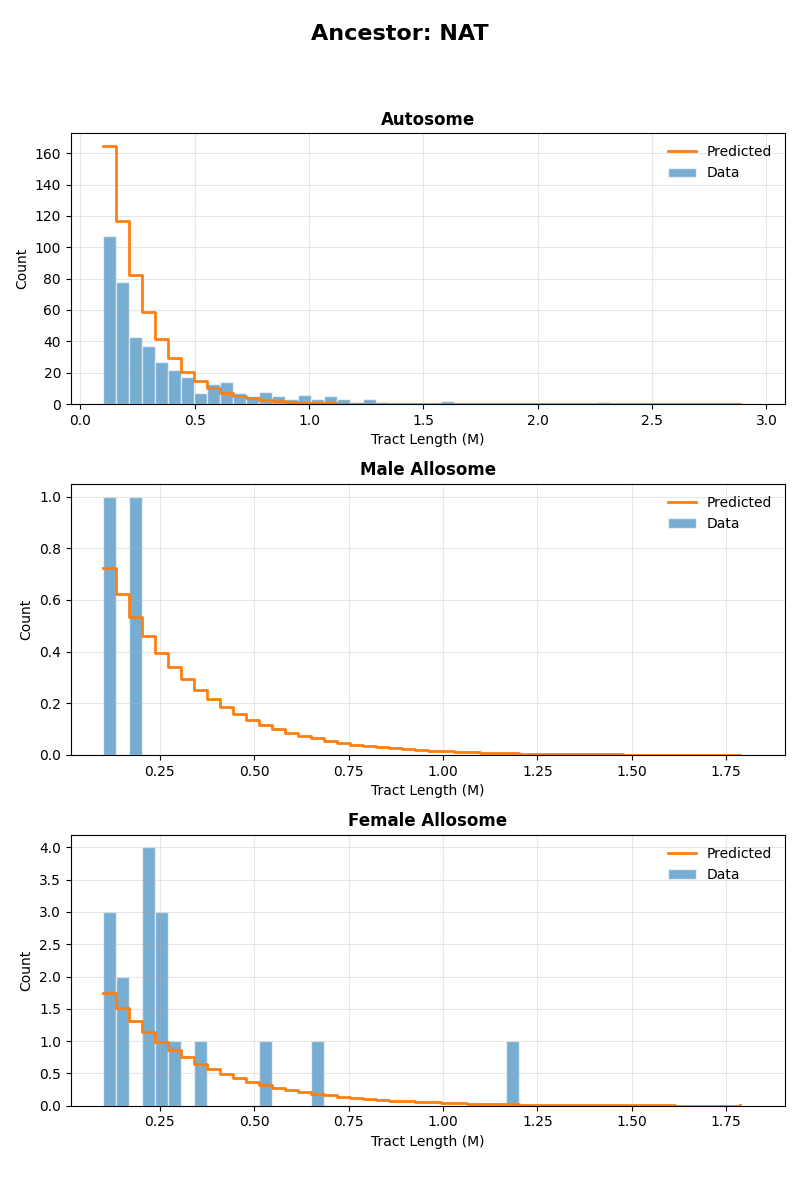
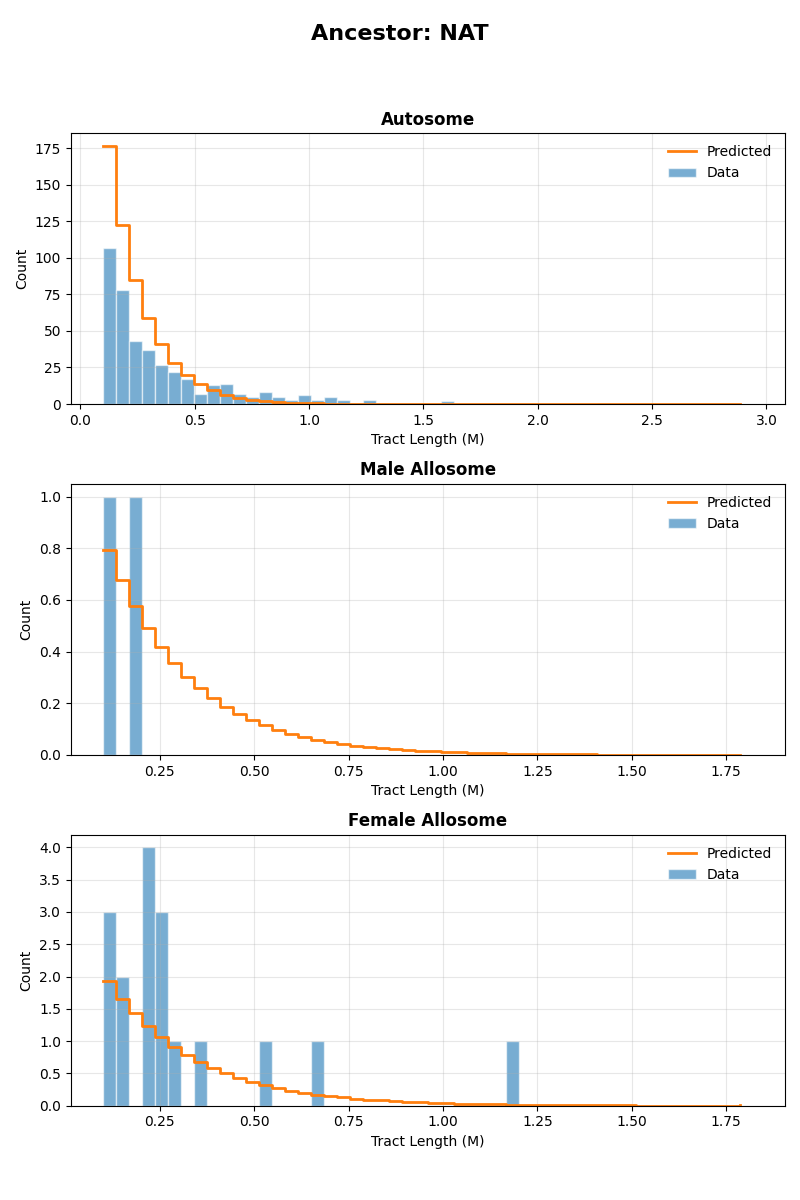
fixed bug in ASW two-pulse model .yaml file

diff --git a/tracts/demography/base_parametrized_demography.py b/tracts/demography/base_parametrized_demography.py
@@ -8,6 +8,9 @@ import scipy
 import scipy.optimize
 from tracts.demography.parameter import ParamType, Parameter, DependentParameter
 
+small = 10**-12  
+large = 1/small
+
 logger = logging.getLogger(__name__)
 
 
@@ -70,7 +73,7 @@ class FounderEvent(BaseFounderEvent):
                 
                 logger.warning('Founding migration rates add up to more than 1 at params' 
                 +f"{params}, matrix {migration_matrix}")
-                
+
 
             migration_matrix[
                 start_time, parametrized_demography.population_indices[self.remainder_population]] = remaining_rate
@@ -664,7 +667,7 @@ class FixedParametersHandler:
                 for ancestor in self.known_ancestry_proportions.keys()]).flatten()
         
         
-        return diff
+        return diff  
 
     
     def compute_params_fixed_by_ancestry(self, params: list[float], known_ancestry_proportions=None, units = "phys"):
@@ -711,8 +714,13 @@ class FixedParametersHandler:
             except ValueError as e:
                 raise ValueError(f"problem computing migration matrices with opt parameters {params_opt}parameters {params_phys}.") from e
             
+            bound = self.demography.check_bounds(start_params_phys_full) 
             
-            return value
+            if bound < 0: 
+                #breakpoint()
+                return value + (1-bound)*large
+            else:
+                return value
         
         param_name_list = self.demography.params_fixed_by_ancestry
         
@@ -730,7 +738,8 @@ class FixedParametersHandler:
             
             solved_params = scipy.optimize.fsolve(param_objective_func,
                                               start_point_validated)
-            
+
+          
         except ValueError as e:
             raise ValueError("Could not solve for parameters fixed by ancestry proportions.") from e
         error = np.linalg.norm(param_objective_func(solved_params))

diff --git a/tracts/driver.py b/tracts/driver.py
@@ -201,7 +201,7 @@ def run_tracts(driver_filename, script_dir=None):
     
     if bound(optimizer_start_params[0])<0:
         print("Warning, starting parameters are out of bounds.")
-    
+        breakpoint()
 
 
 
@@ -398,7 +398,8 @@ def parse_start_params(start_param_bounds, repetitions=1, seed=None, model: Para
     start_params = rng.random((repetitions, num_params))
     for param_name, param_info in model.model_base_params.items():
         if param_name in model.params_fixed_by_ancestry:
-            start_params[:, param_info.index] = 0
+            start_params[:, param_info.index] = param_info.bounds[0] #this will be replaced, set to arbitrary feasible value
+            
             continue
 
         try: 
@@ -410,7 +411,8 @@ def parse_start_params(start_param_bounds, repetitions=1, seed=None, model: Para
             start_params[:, param_info.index] = getattr(start_param_bounds, param_name)
         else:
             try:
-                bounds = [float(bound) for bound in getattr(start_param_bounds, param_name).split(':')] # Intervals are specified as "min:max" to avoid confusion with negative values.
+                bounds = [float(bound) for bound in getattr(start_param_bounds, param_name).split(':')] 
+                # Intervals are specified as "min:max" to avoid confusion with negative values.
 
                 assert len(bounds) == 2
                 start_params[:, param_info.index] *= bounds[1] - bounds[0]

diff --git a/tracts/demography/parametrized_demography.py b/tracts/demography/parametrized_demography.py
@@ -105,8 +105,7 @@ class ParametrizedDemography(BaseParametrizedDemography):
                               for population_of_interest, founder_event in self.founder_events.items()}
 
         self.execute_migration_events(migration_matrices=migration_matrices, params=params)
-        #if min(np.min(migration_matrices['X_male']), np.min(migration_matrices['X_female']))<0 :
-        #    breakpoint()
+
         return migration_matrices
     
     def get_founding_time(self, population):
